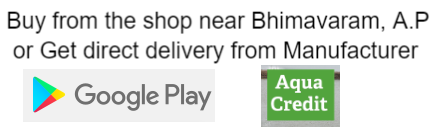
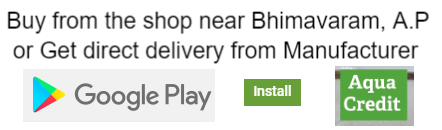
Update APP Sheet

Changed region(s): [[0.5294, 0.4923, 0.9412, 0.9846]]

diff --git a/index.html b/index.html
@@ -9,11 +9,11 @@
 
 <div style="text-align: center">
 <a href="https://play.google.com/store/apps/details?id=com.appsheet.whitelabel.guid_de648740_5fed_4b0e_ba7e_487727f064fc">
-<img src="img.png" alt="AQUA CREDIT" height=200 width=400>
+<img src="img.png" alt="AQUA CREDIT" height=130 width=350>
 </a>
 </div>
 
-<iframe src="https://www.appsheet.com/start/de648740-5fed-4b0e-ba7e-487727f064fc" height=600 width="100%" title="Aqua Credit APP"></iframe>
+<iframe src="https://www.appsheet.com/start/de648740-5fed-4b0e-ba7e-487727f064fc" height=600 width="90%" title="Aqua Credit APP"></iframe>
 
 </body>
 </html>
